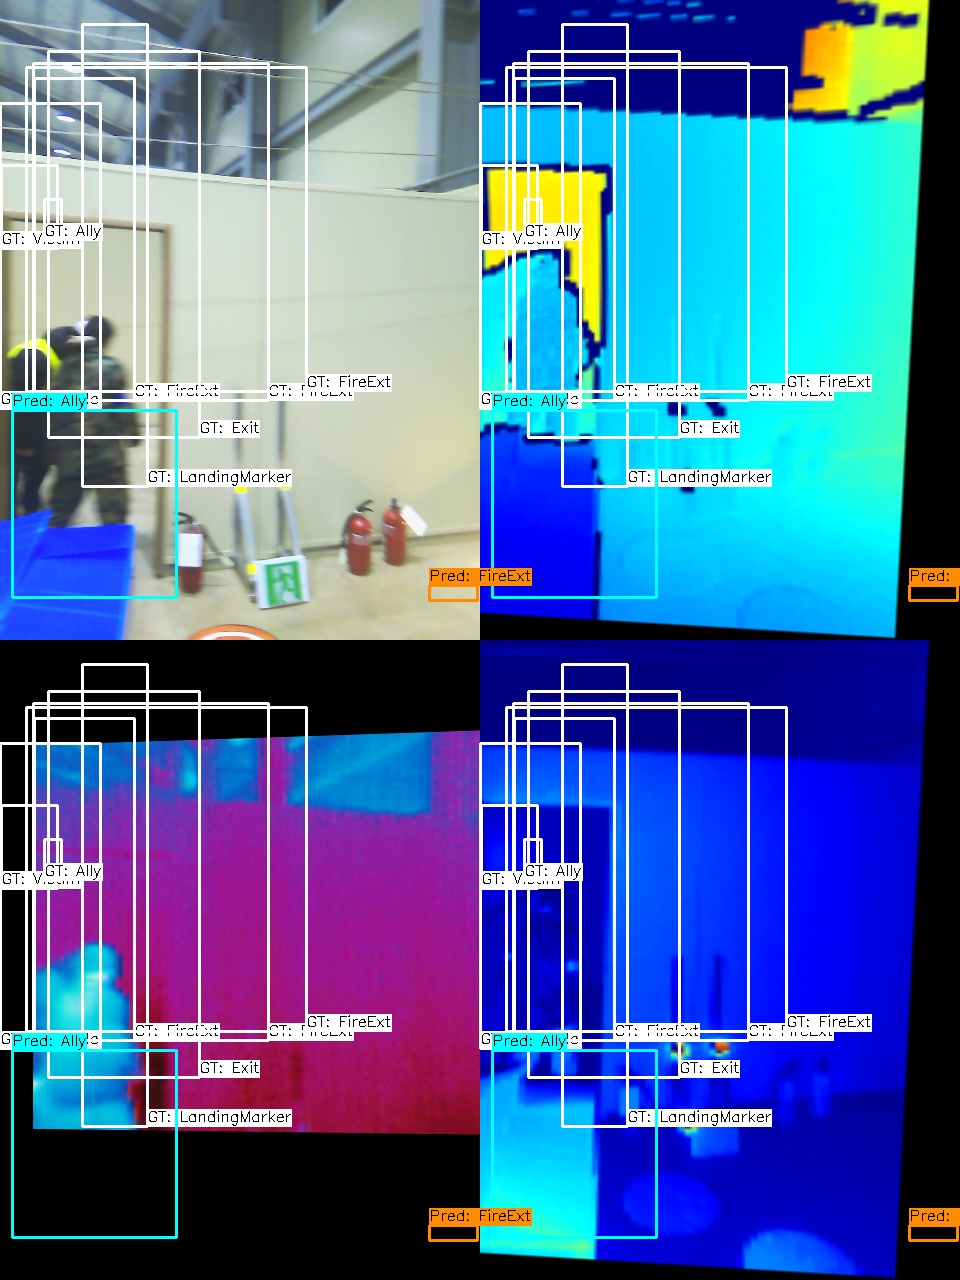
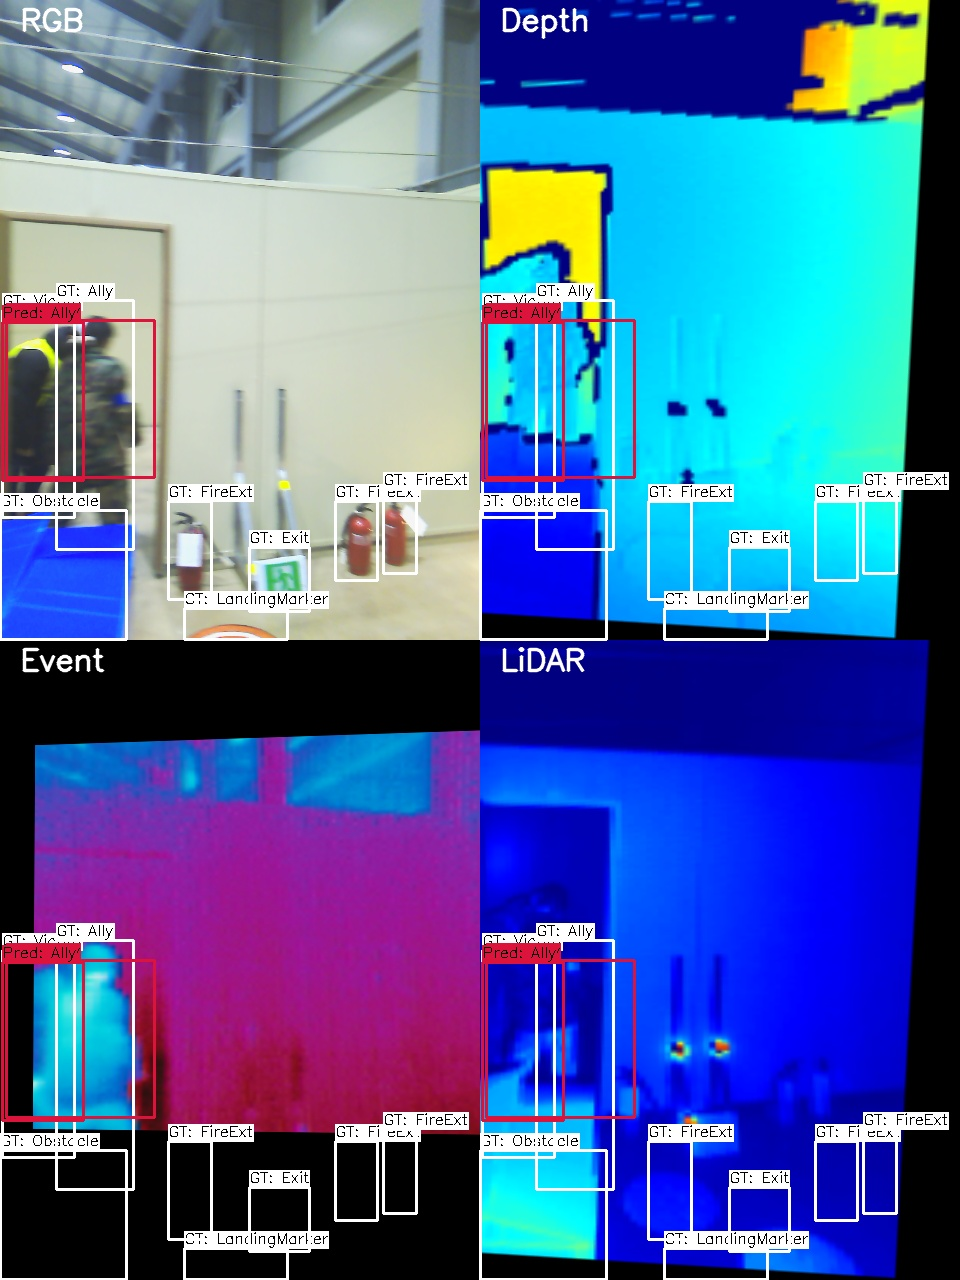
Fix : handle gt and prediction box format in visualization, gt : xywh, pred : xyxy

Changed region(s): [[0.0, 0.0, 1.0, 1.0]]

diff --git a/multimodal_visualization.py b/multimodal_visualization.py
@@ -73,24 +73,58 @@ class SejongMultimodalVisualizer:
                 if len(img.shape) == 2: img = cv2.cvtColor(img, cv2.COLOR_GRAY2RGB)
                 grid_img[row*h:(row+1)*h, col*w:(col+1)*w] = img
         return grid_img, (h, w)
-
+    
     def draw_boxes(self, image: np.ndarray, boxes: np.ndarray, labels: np.ndarray,
-                   img_shape: Tuple[int, int], text_prefix: str, base_color: Tuple[int, int, int] = None) -> np.ndarray:
+                   img_shape: Tuple[int, int], text_prefix: str,
+                   box_format: str = 'xywh',  # 🔥 포맷을 지정하는 인자 추가!
+                   base_color: Tuple[int, int, int] = None) -> np.ndarray:
         """ GT 또는 Prediction 바운딩 박스를 이미지에 그리는 범용 함수 """
         h, w = img_shape
         modality_offsets = {'rgb': (0, 0), 'depth': (0, w), 'event': (h, 0), 'lidar': (h, w)}
+        
         for bbox, label in zip(boxes, labels):
-            x1, y1, x2, y2 = bbox.astype(int)
+            # ==================== 👇 여기가 수정된 부분입니다 👇 ====================
+            # box_format에 따라 좌표를 올바르게 계산
+            if box_format == 'xywh':
+                x, y, box_w, box_h = bbox.astype(int)
+                x1, y1, x2, y2 = x, y, x + box_w, y + box_h
+            elif box_format == 'xyxy':
+                x1, y1, x2, y2 = bbox.astype(int)
+            else:
+                raise ValueError(f"Unknown box_format: {box_format}")
+            # =================================================================
+
             class_name = self.classes[label]
             color = base_color if base_color else self.colors[label % len(self.colors)]
             label_text = f'{text_prefix}: {class_name}'
+            
             for offset_y, offset_x in modality_offsets.values():
                 x1_s, y1_s, x2_s, y2_s = x1 + offset_x, y1 + offset_y, x2 + offset_x, y2 + offset_y
+                
                 cv2.rectangle(image, (x1_s, y1_s), (x2_s, y2_s), color, 2)
+                
                 (text_w, text_h), _ = cv2.getTextSize(label_text, cv2.FONT_HERSHEY_SIMPLEX, 0.5, 1)
                 cv2.rectangle(image, (x1_s, y1_s - text_h - 5), (x1_s + text_w, y1_s), color, -1)
                 cv2.putText(image, label_text, (x1_s, y1_s - 5), cv2.FONT_HERSHEY_SIMPLEX, 0.5, (0, 0, 0), 1)
+                
         return image
+    # def draw_boxes(self, image: np.ndarray, boxes: np.ndarray, labels: np.ndarray,
+    #                img_shape: Tuple[int, int], text_prefix: str, base_color: Tuple[int, int, int] = None) -> np.ndarray:
+    #     """ GT 또는 Prediction 바운딩 박스를 이미지에 그리는 범용 함수 """
+    #     h, w = img_shape
+    #     modality_offsets = {'rgb': (0, 0), 'depth': (0, w), 'event': (h, 0), 'lidar': (h, w)}
+    #     for bbox, label in zip(boxes, labels):
+    #         x1, y1, x2, y2 = bbox.astype(int)
+    #         class_name = self.classes[label]
+    #         color = base_color if base_color else self.colors[label % len(self.colors)]
+    #         label_text = f'{text_prefix}: {class_name}'
+    #         for offset_y, offset_x in modality_offsets.values():
+    #             x1_s, y1_s, x2_s, y2_s = x1 + offset_x, y1 + offset_y, x2 + offset_x, y2 + offset_y
+    #             cv2.rectangle(image, (x1_s, y1_s), (x2_s, y2_s), color, 2)
+    #             (text_w, text_h), _ = cv2.getTextSize(label_text, cv2.FONT_HERSHEY_SIMPLEX, 0.5, 1)
+    #             cv2.rectangle(image, (x1_s, y1_s - text_h - 5), (x1_s + text_w, y1_s), color, -1)
+    #             cv2.putText(image, label_text, (x1_s, y1_s - 5), cv2.FONT_HERSHEY_SIMPLEX, 0.5, (0, 0, 0), 1)
+    #     return image
 
     def add_modality_labels(self, concat_img: np.ndarray, img_shape: Tuple[int, int]) -> np.ndarray:
         """ 각 모달리티 영역에 라벨 추가 """
@@ -231,8 +265,12 @@ class SejongMultimodalVisualizer:
             concat_img, img_shape = self.create_multimodal_concat(images)
 
             # 박스 그리기 및 저장
-            result_img = self.draw_boxes(concat_img, gt_boxes, gt_labels, img_shape, text_prefix="GT", base_color=(255, 255, 255))
-            result_img = self.draw_boxes(result_img, pred_boxes, pred_labels, img_shape, text_prefix="Pred")
+            # result_img = self.draw_boxes(concat_img, gt_boxes, gt_labels, img_shape, text_prefix="GT", base_color=(255, 255, 255))
+            # result_img = self.draw_boxes(concat_img, pred_boxes, pred_labels, img_shape, text_prefix="Pred")
+            result_img = self.draw_boxes(concat_img, gt_boxes, gt_labels, img_shape, 
+                                text_prefix="GT", base_color=(255, 255, 255), box_format='xywh')
+            result_img = self.draw_boxes(result_img, pred_boxes, pred_labels, img_shape, 
+                                         text_prefix="Pred", box_format='xyxy')
             result_img = self.add_modality_labels(result_img, img_shape)
             cv2.imwrite(output_path, cv2.cvtColor(result_img, cv2.COLOR_BGR2RGB))
 
@@ -241,11 +279,11 @@ class SejongMultimodalVisualizer:
 def main():
     # ... (main 함수는 변경 없음) ...
     parser = argparse.ArgumentParser(description='Sejong Multimodal Detection Visualization based on Validation Set')
-    parser.add_argument('--config', default='/SSDb/jemo_maeng/src/Project/Drone24/detection/drone-mmdetection-jm/custom_configs/DELIVER/lecun-sejong2504_cmnext_rcnn_lr0.01_ep50.py', help='모델 config 파일 경로')
-    parser.add_argument('--checkpoint', default='/SSDb/jemo_maeng/src/Project/Drone24/detection/drone-mmdetection-jm/work_dirs/sejong2504_cmnext_b2_faster_rcnn_2x_cosinelr0.01_ep50/best_coco_bbox_mAP_epoch_50.pth', help='모델 weight 파일 경로')
+    parser.add_argument('--config', default='/SSDb/jemo_maeng/src/Project/Drone24/detection/drone-mmdetection-jm/custom_configs/DELIVER/lecun-sejong2504_cmnext_rcnn_lr0.01_ep50_v3.py', help='모델 config 파일 경로')
+    parser.add_argument('--checkpoint', default='/SSDb/jemo_maeng/src/Project/Drone24/detection/drone-mmdetection-jm/work_dirs/sejong2504_cmnext_b2_rcnn_multigpu_v3/best_coco_bbox_mAP_epoch_5.pth', help='모델 weight 파일 경로')
     parser.add_argument('--output-dir', default='/SSDb/jemo_maeng/src/Project/Drone24/detection/drone-mmdetection-jm/multimodal_inference_with_gt', help='시각화 결과 저장 디렉토리')
-    parser.add_argument('--num-samples', type=int, default=20, help='시각화할 샘플 수')
-    parser.add_argument('--score-threshold', type=float, default=0.5, help='신뢰도 임계값')
+    parser.add_argument('--num-samples', type=int, default=100, help='시각화할 샘플 수')
+    parser.add_argument('--score-threshold', type=float, default=0.3, help='신뢰도 임계값')
     parser.add_argument('--device', default='cuda:0', help='사용할 디바이스')
     args = parser.parse_args()
     
